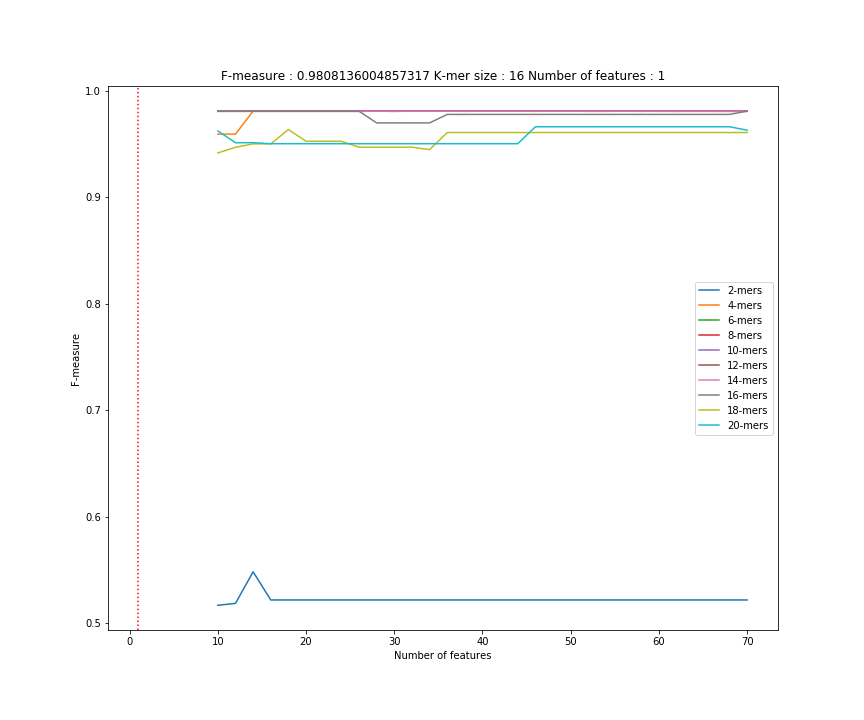
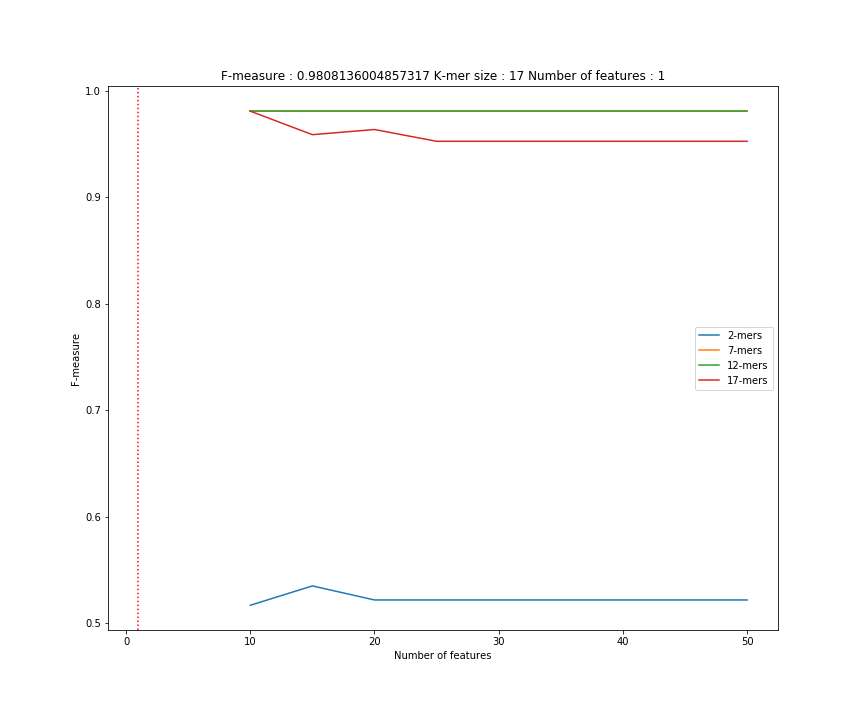
se ajusto para obtener los k-mers

diff --git a/viral/viral_classification/feature_extractor.py b/viral/viral_classification/feature_extractor.py
@@ -164,13 +164,17 @@ def recursiveFeatureElimination(X, y, k_mers, features_max):
 
 ###################################################################################################
 #############################        EVALUATE FEATURE SIZES         ###############################
-def evaluateFeatureSizes(X, y, k_mers, range_features):
-    clf = SVC(kernel = "linear", C = 1)   
+# X: ocurrence matrix of each k-mer
+def evaluateFeatureSizes(X, y, k_mers, range_features, features_max, n_splits):
+    clf = SVC(kernel = "linear", C = 1)  
+    
+    scores = []
+    supports = []
 
     for n in range_features:
         print("\rRFE :", round(n / features_max * 100, 0), "%", end='')
         f_measure = 0
-        k_mers_rfe = []
+        k_mers_rfe = [] # here we store the k-mers no eliminated
         rfe = RFE(estimator = clf, n_features_to_select = n, step = 1)
         X_rfe = rfe.fit_transform(X, y)
 
@@ -213,11 +217,12 @@ def getOptimalSolution(scores_list, supports_list, k_mers_range, features_range,
     optimal_score = 0
     
     # Identify best solution
+    # here we indetified the best set of k-mers (one element in supports_list) based on the max score (scores_list) 
     for i, s in enumerate(scores_list):
         if max(s) > best_score:
             best_score = max(s)
             index = s.index(max(s))
-            best_k_length = k_mers_range[i]
+            best_k_length = k_mers_range[i] #here we store the value of k in k-mer
             best_k_mers = supports_list[i][index]
         elif max(s) == best_score:
             if s.index(max(s)) < index:
@@ -228,6 +233,8 @@ def getOptimalSolution(scores_list, supports_list, k_mers_range, features_range,
         else: pass
 
 	# Identify optimal solution
+    # here, we considered all the solutions (scores_list)  that at least have the T% of the best score 
+    # and considered the one that have  the fewest features
     for i, l in enumerate(scores_list):
         for j, s in enumerate(l):
             if s >=  best_score * T and j <= index: 
@@ -254,52 +261,58 @@ def getOptimalSolution(scores_list, supports_list, k_mers_range, features_range,
     
     fname = str('fig_file')
     plt.savefig(fname)
+
+    return best_k_mers, best_k_length
  
 ###################################################################################################
 ###################################################################################################  
     
-
-if __name__ == "__main__" :
-    #training_data = generateLabeledData("../Data/HIVGRPCG/data.fa", "../Data/HIVGRPCG/class.csv")
-    
-    features_max = 70
-    features_min = 10
+def getBestKmersAndFeatures(path):
+    features_max = 50
+    features_min = 1
     n_splits = 5
-    k_min = 2
-    k_max = 20  
+    k_min = 5
+    k_max = 25  
     T = 0.99
 
-    range_k_mers = range(k_min, k_max + 1, 2)
+    range_k_mers = range(k_min, k_max + 1, 5)
     range_features = range(features_min, features_max + 1, 2)
 
     scores_list = []
     supports_list = []
     
-    trainingData = generateLabeledData("../castor_krfe/Data/HIVGRPCG/data.fa", "../castor_krfe/Data/HIVGRPCG/class.csv")
-    data         = generateData("../castor_krfe/Data/HIVGRPCG/data.fa")
+    trainingData = generateLabeledData(path + "/data.fa", path +  "/class.csv")
+    #trainingData = generateLabeledData("../castor_krfe/Data/HIVGRPCG/data.fa", "../castor_krfe/Data/HIVGRPCG/class.csv")
+    #data         = generateData("../castor_krfe/Data/HIVGRPCG/data.fa")
     
     for k in range_k_mers: 
-        print("Evaluatng with k-mer:", k)
+        print("\nEvaluatng with k-mer:", k)
         
-        k_mers      = generate_K_mers(trainingData, k)    
+        k_mers      = generate_K_mers(trainingData, k) #list of substring of size k: (if k = 2; k_mers= [AT, CG, AC, ...])    
         X, y        = generateXYMatrice(trainingData, k_mers, k) # OCURERNCE MATRIX
         X           = maxMinNormalization(X)
         X, k_mers   = recursiveFeatureElimination(X, y, k_mers, features_max)
-                
-    
-        scores = []
-        supports = []
+                           
     
         labelEncodel = LabelEncoder()
         y = labelEncodel.fit_transform(y)
     
-        scores, supports =  evaluateFeatureSizes(X, y, k_mers, range_features)
+        # score = f1-measure, support = list of k-mers
+        scores, supports =  evaluateFeatureSizes(X, y, k_mers, range_features, features_max, n_splits)
     
         scores_list.append(scores)
-        supports_list.append(supports)
+        supports_list.append(supports) 
 
 
-    getOptimalSolution(scores_list, supports_list, range_k_mers, range_features, T)
+    best_k_mers, best_k_length = getOptimalSolution(scores_list, supports_list, range_k_mers, range_features, T)
+
+    return best_k_mers, best_k_length
    
+
+if __name__ == "__main__" :
+    #training_data = generateLabeledData("../Data/HIVGRPCG/data.fa", "../Data/HIVGRPCG/class.csv")
[1 lines of base64/hex data omitted]
+    print("Identified k =", best_k_length)
+    print("Identified k-mers  =", best_k_mers)
 
   
